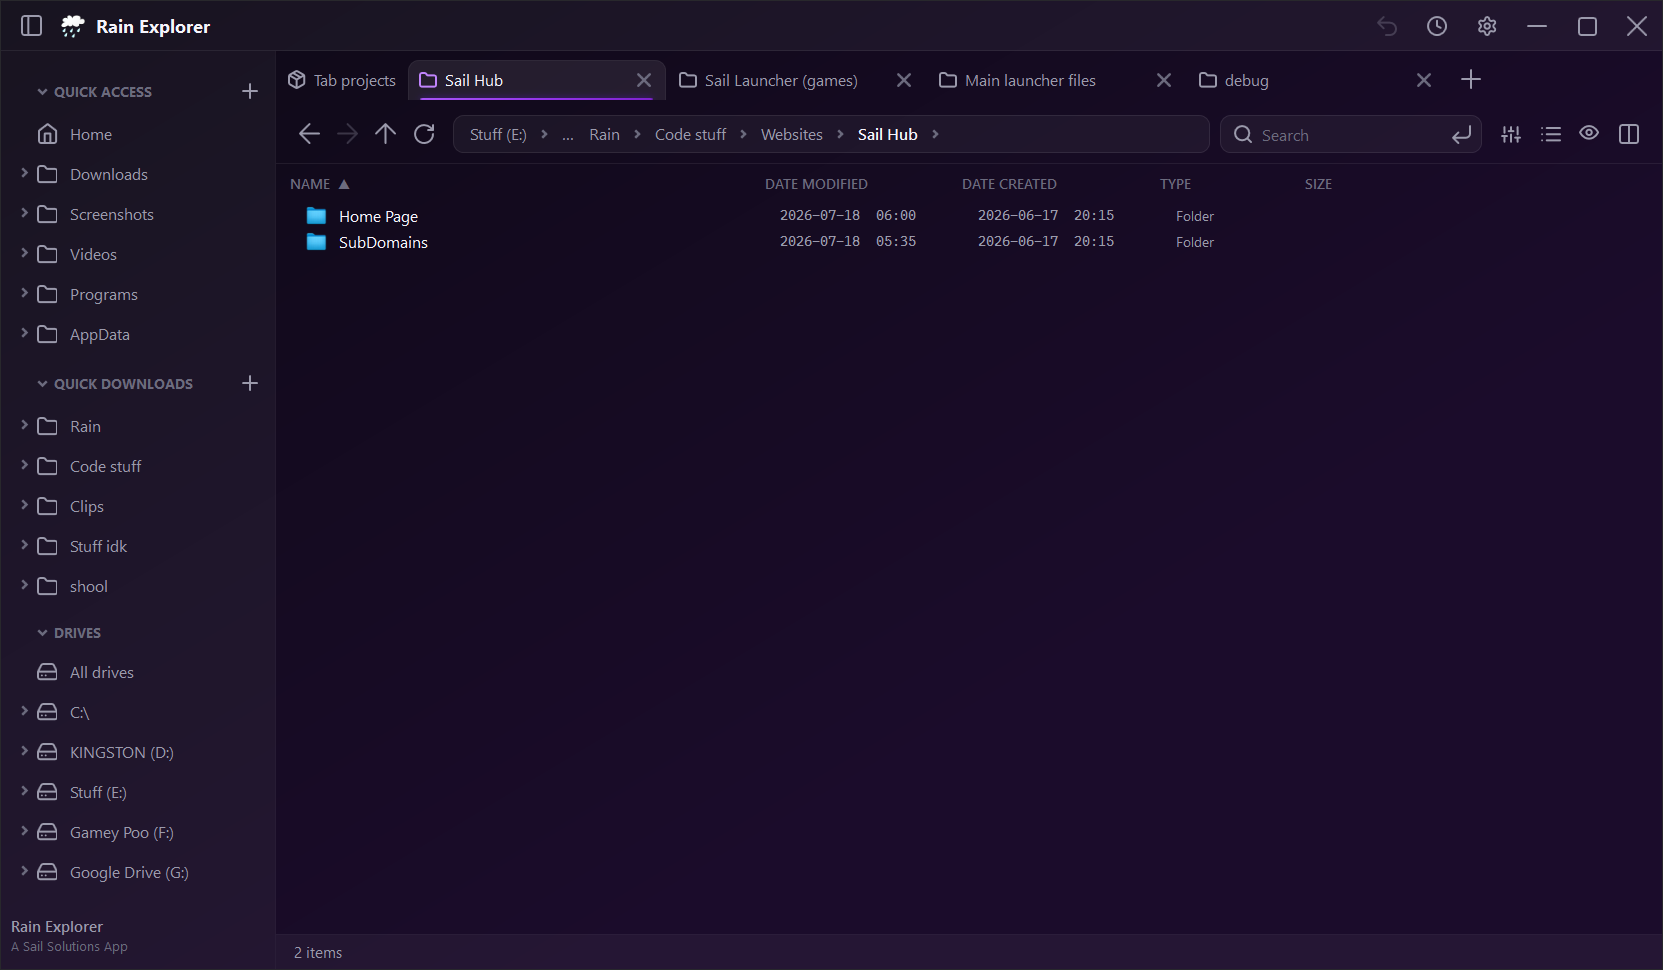
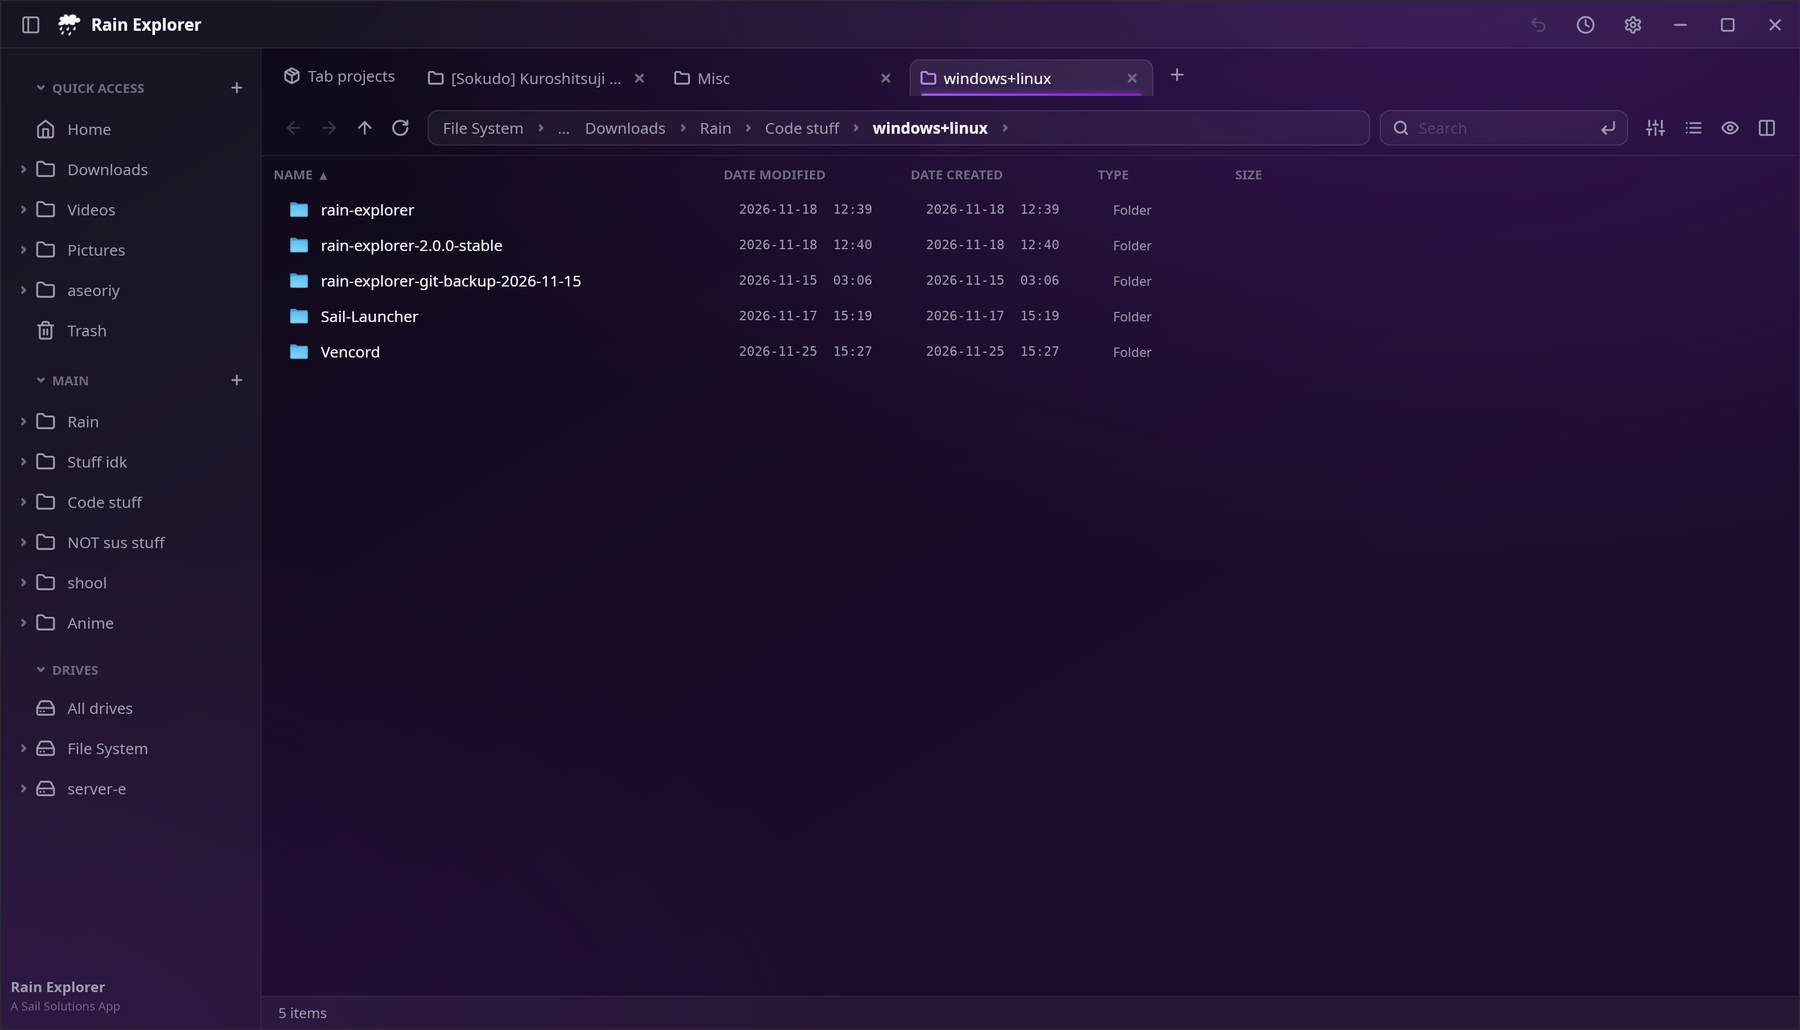
New preview screenshot for 2.0.0

diff --git a/README.md b/README.md
@@ -4,9 +4,9 @@ Rain Explorer is a file manager for Windows and Linux, built with C# and .NET 10
 
 The Windows app uses WPF. The Linux port uses Avalonia and follows Linux desktop conventions for the trash, application launching, icons and removable drives.
 
-![Rain Explorer on Windows](https://raw.githubusercontent.com/Aseoriy/Rain-Explorer/master/Preview.png)
+![Rain Explorer](https://raw.githubusercontent.com/Aseoriy/Rain-Explorer/master/Preview.png)
 
-*The screenshot above shows the Windows app.*
+*The screenshot above shows the Linux app.*
 
 ## Platform status
 
@@ -223,7 +223,7 @@ linux/
   packaging/     Build/install scripts, desktop entry and icons
   tools/         Icon conversion tool
 README.md        Repository overview
-Preview.png      Windows application preview
+Preview.png      Application preview (Linux)
 ```
 
 Each platform keeps its generated output in its own ignored `dist/` folder. Dependency directories, local notes and other generated files are also excluded from Git.
